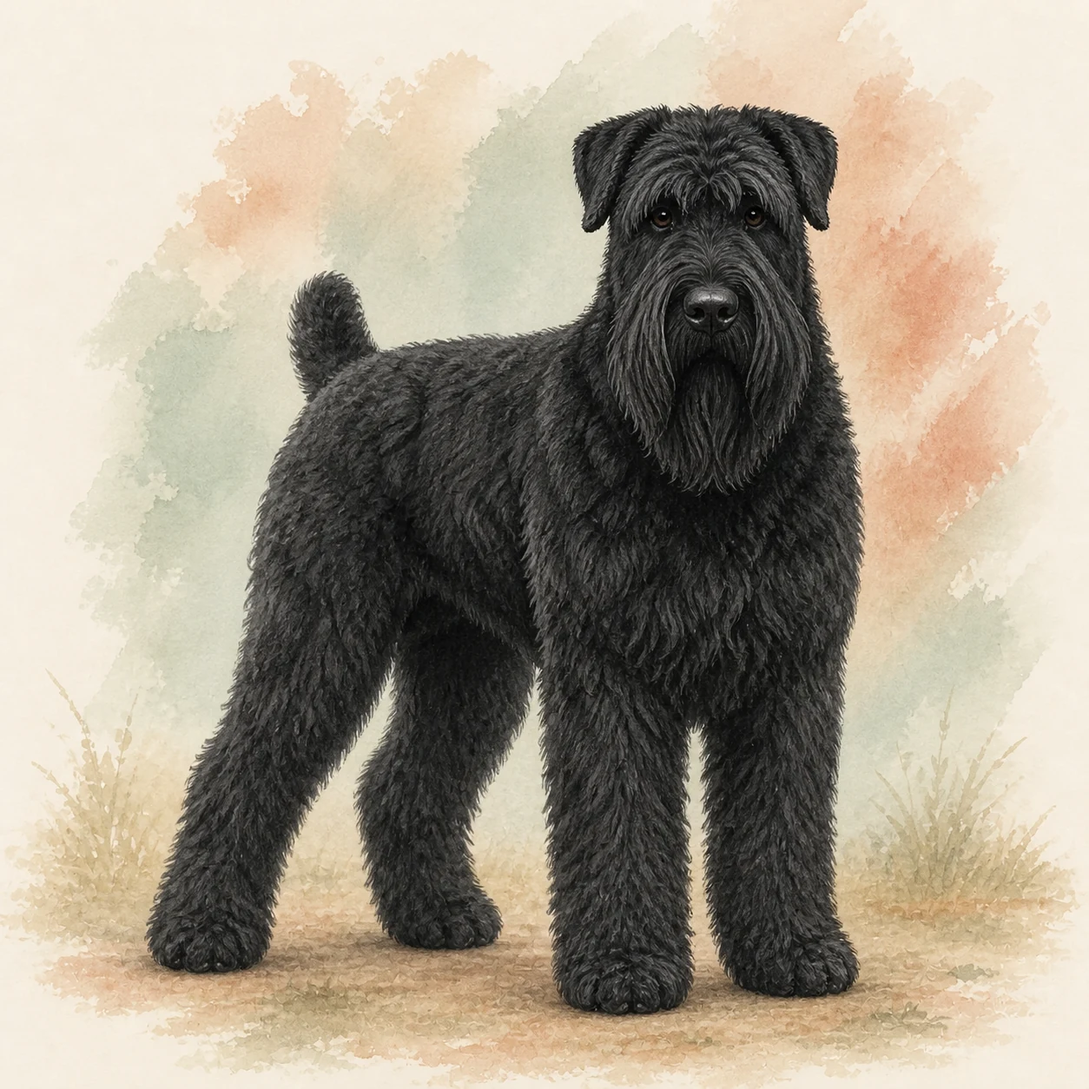
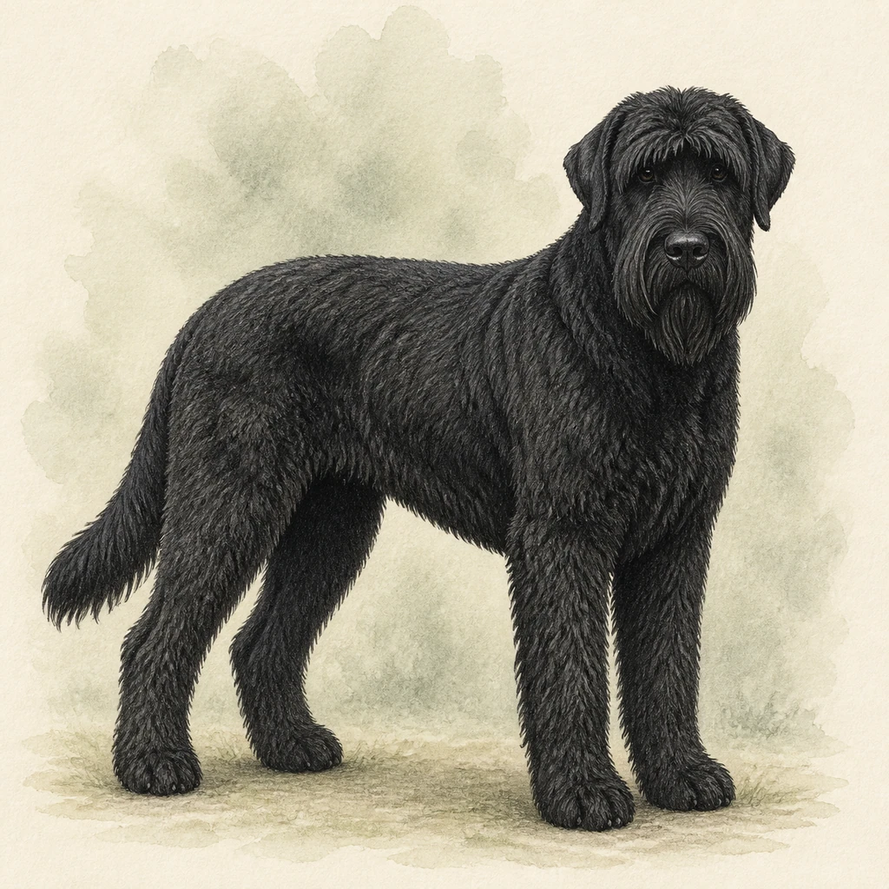
Refine giant breed imagery and remove review UI

diff --git a/src/components/discover-explorer.tsx b/src/components/discover-explorer.tsx
@@ -5,11 +5,6 @@ import { usePathname, useRouter, useSearchParams } from "next/navigation";
 import { useEffect, useMemo, useRef, useState } from "react";
 import { BreedVisual } from "@/components/breed-visual";
 import {
-  breedContentAuditStatuses,
-  breedContentAuditStatusLabels,
-  type BreedContentAuditStatus,
-} from "@/content/breed-content-audit";
-import {
   applyBreedFilterPreset,
   breedFilterPresets,
   emptyBreedFilters,
@@ -26,7 +21,7 @@ import {
 import { useHistoryEntryState } from "@/lib/history-entry-state";
 import { isKoreanManagedBreed } from "@/lib/breed-legal-care";
 import { presentBreedOrigin } from "@/lib/breed-origin-presentation";
-import { filterBreedsByContentAuditStatus, type DiscoverBreed } from "@/lib/discover-breeds";
+import type { DiscoverBreed } from "@/lib/discover-breeds";
 import styles from "./discover-explorer.module.css";
 
 const sizeOptions: Array<{ value: BreedSize; label: string }> = [
@@ -56,28 +51,9 @@ const quickPresets = breedFilterPresets.filter((preset) => ["calm", "active", "s
 
 const INITIAL_RESULT_COUNT = 48;
 const RESULT_BATCH_SIZE = 48;
-const AUDIT_QUERY_KEY = "audit";
 const isValidVisibleCount = (value: unknown): value is number => (
   Number.isInteger(value) && Number(value) >= INITIAL_RESULT_COUNT
 );
-
-function parseAuditStatus(params: URLSearchParams): BreedContentAuditStatus | null {
-  const value = params.get(AUDIT_QUERY_KEY);
-  if (breedContentAuditStatuses.some((status) => status === value)) return value as BreedContentAuditStatus;
-  return params.get("reviewed") === "core" ? "needs-review" : null;
-}
-
-function auditStatusClass(status: BreedContentAuditStatus) {
-  if (status === "needs-review") return styles.auditBadgeNeedsReview;
-  if (status === "awaiting-owner-review") return styles.auditBadgeAwaiting;
-  return styles.auditBadgeApproved;
-}
-
-function auditStatusIcon(status: BreedContentAuditStatus) {
-  if (status === "needs-review") return "!";
-  if (status === "awaiting-owner-review") return "·";
-  return "✓";
-}
 
 function cloneFilters(filters: BreedFilters): BreedFilters {
   return {
@@ -104,23 +80,16 @@ export function DiscoverExplorer({ breeds }: { breeds: readonly DiscoverBreed[] 
   const queryString = searchParams.toString();
   const syncedQueryRef = useRef(queryString);
   const urlFilters = useMemo(() => parseBreedFilters(new URLSearchParams(queryString)), [queryString]);
-  const urlAuditStatus = useMemo(() => parseAuditStatus(new URLSearchParams(queryString)), [queryString]);
   const [filters, setFilters] = useState<BreedFilters>(() => urlFilters);
-  const [auditStatus, setAuditStatus] = useState<BreedContentAuditStatus | null>(urlAuditStatus);
   const [visibleCount, setVisibleCount] = useHistoryEntryState(
     "discoverVisibleCount",
     INITIAL_RESULT_COUNT,
     isValidVisibleCount,
   );
   const filtersRef = useRef(filters);
-  const auditStatusRef = useRef(auditStatus);
-  const results = useMemo(() => filterBreedsByContentAuditStatus(filterBreeds(breeds, filters), auditStatus), [auditStatus, breeds, filters]);
-  const auditCounts = useMemo(() => Object.fromEntries(
-    breedContentAuditStatuses.map((status) => [status, breeds.filter((breed) => breed.contentAuditStatus === status).length]),
-  ) as Record<BreedContentAuditStatus, number>, [breeds]);
-  const auditTargetCount = useMemo(() => breeds.filter((breed) => breed.contentAuditStatus !== null).length, [breeds]);
+  const results = useMemo(() => filterBreeds(breeds, filters), [breeds, filters]);
   const visibleResults = useMemo(() => results.slice(0, visibleCount), [results, visibleCount]);
-  const activeCount = Object.values(filters).reduce((count, values) => count + values.length, auditStatus ? 1 : 0);
+  const activeCount = Object.values(filters).reduce((count, values) => count + values.length, 0);
 
   useEffect(() => {
     if (pendingQueryRef.current !== null) {
@@ -135,11 +104,9 @@ export function DiscoverExplorer({ breeds }: { breeds: readonly DiscoverBreed[] 
 
     syncedQueryRef.current = queryString;
     filtersRef.current = urlFilters;
-    auditStatusRef.current = urlAuditStatus;
     setFilters(urlFilters);
-    setAuditStatus(urlAuditStatus);
     setVisibleCount(INITIAL_RESULT_COUNT);
-  }, [queryString, setVisibleCount, urlAuditStatus, urlFilters]);
+  }, [queryString, setVisibleCount, urlFilters]);
 
   useEffect(() => {
     if (!filterOpen) return;
@@ -230,14 +197,11 @@ export function DiscoverExplorer({ breeds }: { breeds: readonly DiscoverBreed[] 
     requestAnimationFrame(() => filterTriggerRef.current?.focus());
   }
 
-  function commitFilterState(nextFilters: BreedFilters, nextAuditStatus = auditStatusRef.current) {
+  function commitFilterState(nextFilters: BreedFilters) {
     filtersRef.current = nextFilters;
-    auditStatusRef.current = nextAuditStatus;
     setFilters(nextFilters);
-    setAuditStatus(nextAuditStatus);
     setVisibleCount(INITIAL_RESULT_COUNT);
     const params = filtersToSearchParams(nextFilters);
-    if (nextAuditStatus) params.set(AUDIT_QUERY_KEY, nextAuditStatus);
     const query = params.toString();
     pendingQueryRef.current = query;
     router.replace(query ? `${pathname}?${query}` : pathname, { scroll: false });
@@ -282,32 +246,6 @@ export function DiscoverExplorer({ breeds }: { breeds: readonly DiscoverBreed[] 
           <div><span>전체 도감</span><h1 id="discover-results-title">{activeCount > 0 ? `${results.length}종을 살펴보세요` : `${breeds.length}종 모두 보기`}</h1></div>
         </div>
 
-        <div className={styles.auditFilter}>
-          <div className={styles.auditFilterCopy}>
-            <span>콘텐츠 재검수</span>
-            <small>역사에서 오늘의 생활로 이어지는 원고와 이미지 {auditTargetCount}종을 차례로 확인해요.</small>
-          </div>
-          <div className={styles.auditFilterOptions} aria-label="콘텐츠 검수 상태">
-            {breedContentAuditStatuses.map((status) => {
-              const active = auditStatus === status;
-              const count = auditCounts[status];
-              return (
-                <button
-                  type="button"
-                  key={status}
-                  aria-pressed={active}
-                  disabled={count === 0}
-                  onClick={() => commitFilterState(filtersRef.current, active ? null : status)}
-                >
-                  <span className={`${styles.auditFilterIcon} ${auditStatusClass(status)}`} aria-hidden="true">{auditStatusIcon(status)}</span>
-                  <span>{breedContentAuditStatusLabels[status]}</span>
-                  <strong>{count}</strong>
-                </button>
-              );
-            })}
-          </div>
-        </div>
-
         <div className={styles.quickFilters}>
           <span className={styles.quickFiltersLabel}>빠른 조건</span>
           <div className={styles.quickFilterList} aria-label="생활 조건 빠른 선택">
@@ -336,9 +274,8 @@ export function DiscoverExplorer({ breeds }: { breeds: readonly DiscoverBreed[] 
 
         {activeCount > 0 && (
           <div className={styles.selectedChips} aria-label="선택한 필터">
-            {auditStatus && <button type="button" aria-label={`${breedContentAuditStatusLabels[auditStatus]} 필터 제거`} onClick={() => commitFilterState(filtersRef.current, null)}>{breedContentAuditStatusLabels[auditStatus]} <span aria-hidden="true">×</span></button>}
             {selectedEntries.map(({ key, value }) => <button type="button" key={`${key}-${value}`} aria-label={`${selectedLabel(key, value)} 필터 제거`} onClick={() => clearOne(key, value)}>{selectedLabel(key, value)} <span aria-hidden="true">×</span></button>)}
-            <button className={styles.clearFilters} type="button" aria-label="선택한 필터 모두 지우기" onClick={() => commitFilterState(emptyBreedFilters(), null)}>모두 지우기</button>
+            <button className={styles.clearFilters} type="button" aria-label="선택한 필터 모두 지우기" onClick={() => commitFilterState(emptyBreedFilters())}>모두 지우기</button>
           </div>
         )}
       </section>
@@ -404,12 +341,6 @@ export function DiscoverExplorer({ breeds }: { breeds: readonly DiscoverBreed[] 
                 : defaultHighlights;
               return (
                 <Link className={styles.resultCard} href={`/breeds/${breed.slug}`} key={breed.slug} aria-label={`${breed.nameKo} 상세 이야기 보기`}>
-                  {breed.contentAuditStatus && (
-                    <span className={`${styles.auditBadge} ${auditStatusClass(breed.contentAuditStatus)}`}>
-                      <span className={styles.auditBadgeIcon} aria-hidden="true">{auditStatusIcon(breed.contentAuditStatus)}</span>
-                      {breedContentAuditStatusLabels[breed.contentAuditStatus]}
-                    </span>
-                  )}
                   <BreedVisual breed={breed} variant="tile" />
                   <div className={styles.resultCopy}>
                     <div className={styles.resultMeta}><span>{breed.nameEn}</span><span>{presentBreedOrigin(breed.identity.origin)}</span></div>
@@ -429,7 +360,7 @@ export function DiscoverExplorer({ breeds }: { breeds: readonly DiscoverBreed[] 
               <span>{visibleResults.length} / {results.length}마리 · 아래로 내리면 계속 보여요</span>
             </div>
           )}
-          {results.length === 0 && <div className={styles.emptyState}><h2>이 조건에 맞는 견종이 아직 없어요.</h2><p>조건을 하나씩 줄이거나 선택을 모두 지우고 다시 살펴보세요.</p><button type="button" onClick={() => commitFilterState(emptyBreedFilters(), null)}>선택 지우기</button></div>}
+          {results.length === 0 && <div className={styles.emptyState}><h2>이 조건에 맞는 견종이 아직 없어요.</h2><p>조건을 하나씩 줄이거나 선택을 모두 지우고 다시 살펴보세요.</p><button type="button" onClick={() => commitFilterState(emptyBreedFilters())}>선택 지우기</button></div>}
         </section>
       </div>
     </div>

diff --git a/src/components/discover-explorer.module.css b/src/components/discover-explorer.module.css
@@ -4,23 +4,6 @@
 .resultHeader > div > span { color: #ad5b31; font-size: .73rem; font-weight: 800; letter-spacing: .04em; }
 .resultHeader h1 { margin: 5px 0 0; color: #332923; font-size: clamp(1.4rem, 2.2vw, 1.75rem); line-height: 1.25; letter-spacing: -.035em; }
 .quickFilters { margin-bottom: 14px; }
-.auditFilter { display: flex; align-items: center; justify-content: space-between; gap: 18px; margin-bottom: 14px; padding: 12px 14px; border: 1px dashed #d7b99f; border-radius: 16px; background: #fffaf5; }
-.auditFilterCopy { min-width: 0; display: grid; gap: 2px; }
-.auditFilterCopy > span { color: #8f4826; font-size: .75rem; font-weight: 800; }
-.auditFilterCopy small { color: #756a63; font-size: .68rem; line-height: 1.45; }
-.auditFilterOptions { display: flex; flex: none; flex-wrap: wrap; justify-content: flex-end; gap: 7px; }
-.auditFilterOptions button { min-height: 38px; display: inline-flex; align-items: center; gap: 6px; padding: 6px 10px 6px 7px; border: 1px solid transparent; border-radius: 999px; color: #675b53; background: #f3e9df; font-size: .71rem; font-weight: 800; white-space: nowrap; cursor: pointer; }
-.auditFilterOptions button strong { min-width: 1.45rem; padding: 2px 5px; border-radius: 999px; color: #766960; background: rgb(255 255 255 / 72%); font-size: .64rem; text-align: center; }
-.auditFilterOptions button[aria-pressed="true"] { border-color: #92502f; color: #fff; background: #92502f; }
-.auditFilterOptions button[aria-pressed="true"] strong { color: #7f4327; background: #fff; }
-.auditFilterOptions button:disabled { cursor: default; opacity: .5; }
-.auditFilterIcon, .auditBadgeIcon { display: grid; place-items: center; flex: 0 0 auto; border-radius: 50%; font-weight: 900; line-height: 1; }
-.auditFilterIcon { width: 24px; height: 24px; color: #fff; }
-.auditBadge { position: absolute; z-index: 2; top: 9px; right: 9px; display: inline-flex; align-items: center; gap: 5px; padding: 5px 8px 5px 5px; border: 1px solid rgb(255 255 255 / 80%); border-radius: 999px; color: #fff; box-shadow: 0 5px 14px rgb(52 38 29 / 18%); font-size: .65rem; font-weight: 850; line-height: 1; }
-.auditBadgeIcon { width: 20px; height: 20px; color: inherit; background: rgb(255 255 255 / 18%); }
-.auditBadgeNeedsReview { background: #a65b28; }
-.auditBadgeAwaiting { background: #426d91; }
-.auditBadgeApproved { background: #3f7657; }
 .quickFiltersLabel { display: block; margin-bottom: 8px; color: #756a63; font-size: .7rem; font-weight: 750; }
 .quickFilterList { display: flex; flex-wrap: wrap; gap: 7px; }
 .quickFilterList button { min-height: 38px; display: inline-flex; align-items: center; gap: 6px; padding: 8px 13px; border: 0; border-radius: 999px; color: #665a52; background: #f7f2ec; box-shadow: 0 5px 16px rgb(65 46 34 / 5%); font-size: .73rem; font-weight: 750; white-space: nowrap; cursor: pointer; transition: color .18s ease, background-color .18s ease, box-shadow .18s ease, transform .18s ease; }
@@ -64,7 +47,7 @@
 .filterGuide dd { margin: 0; font-size: .68rem; line-height: 1.45; }
 .filterGuide small { display: block; color: #9a4d29; }
 .applyFilter { width: 100%; min-height: 48px; margin-top: 6px; padding: 12px; border: 0; border-radius: 13px; color: #fff; background: #b86437; font-weight: 750; cursor: pointer; }
-.filterTrigger:focus-visible, .auditFilterOptions button:focus-visible, .quickFilterList button:focus-visible, .optionGrid button:focus-visible, .selectedChips button:focus-visible, .applyFilter:focus-visible, .closeFilter:focus-visible, .emptyState button:focus-visible, .filterGuide summary:focus-visible { outline: 3px solid #c56b3c; outline-offset: 3px; }
+.filterTrigger:focus-visible, .quickFilterList button:focus-visible, .optionGrid button:focus-visible, .selectedChips button:focus-visible, .applyFilter:focus-visible, .closeFilter:focus-visible, .emptyState button:focus-visible, .filterGuide summary:focus-visible { outline: 3px solid #c56b3c; outline-offset: 3px; }
 .selectedChips { display: flex; flex-wrap: wrap; gap: 7px; margin-top: 10px; }
 .selectedChips button { min-height: 34px; padding: 7px 10px; border: 0; border-radius: 999px; color: #8f4826; background: #f4e7dc; font-size: .72rem; white-space: nowrap; cursor: pointer; }
 .selectedChips button span { margin-left: 4px; font-weight: 700; }
@@ -96,13 +79,6 @@
   .catalogControls { margin-bottom: 16px; }
   .resultHeader { margin-bottom: 14px; }
   .resultHeader h1 { font-size: 1.35rem; }
-  .auditFilter { align-items: stretch; flex-direction: column; gap: 9px; padding: 11px 12px; }
-  .auditFilterOptions { display: grid; grid-template-columns: repeat(3, minmax(0, 1fr)); }
-  .auditFilterOptions button { min-width: 0; justify-content: center; padding: 6px; }
-  .auditFilterOptions button > span:not(.auditFilterIcon) { overflow: hidden; text-overflow: ellipsis; }
-  .auditFilterOptions button strong { display: none; }
-  .auditBadge { top: 7px; right: 7px; padding-right: 6px; font-size: .58rem; }
-  .auditBadgeIcon { width: 18px; height: 18px; }
   .quickFilters { margin-bottom: 12px; }
   .quickFiltersLabel { margin-bottom: 7px; }
   .quickFilterList { flex-wrap: nowrap; margin-inline: calc(var(--page-inline) / -2); padding: 0 calc(var(--page-inline) / 2) 5px; overflow-x: auto; scrollbar-width: none; scroll-padding-inline: calc(var(--page-inline) / 2); }
@@ -125,4 +101,4 @@
   .resultMeta span { display: block; }
   .resultMeta span:last-child { margin-top: 2px; }
 }
-@media (prefers-reduced-motion: reduce) { .filterPanel, .resultCard, .filterTrigger, .auditFilterOptions button, .quickFilterList button, .quickFilterList button > span { transition: none; } .resultCard:hover, .quickFilterList button:hover { translate: none; } .loadingMark { animation: none; } }
+@media (prefers-reduced-motion: reduce) { .filterPanel, .resultCard, .filterTrigger, .quickFilterList button, .quickFilterList button > span { transition: none; } .resultCard:hover, .quickFilterList button:hover { translate: none; } .loadingMark { animation: none; } }

diff --git a/src/lib/discover-breeds.test.ts b/src/lib/discover-breeds.test.ts
@@ -1,53 +1,19 @@
 import { describe, expect, it } from "vitest";
-import { getBreedContentAuditStatus } from "@/content/breed-content-audit";
 import { breeds } from "@/content/breeds/data";
-import { getStandardBreedDetail } from "@/content/standard-breed-detail/data";
 import { emptyBreedFilters, filterBreeds } from "./breed-filters";
-import { filterBreedsByContentAuditStatus, toDiscoverBreed } from "./discover-breeds";
+import { toDiscoverBreed } from "./discover-breeds";
 
 describe("discover breed DTO", () => {
   it("keeps only the fields used by discovery cards and filters", () => {
     const source = breeds[0];
     const result = toDiscoverBreed(source);
 
-    expect(Object.keys(result)).toEqual(["slug", "nameKo", "nameEn", "tagline", "contentAuditStatus", "sizeClasses", "sizeDisplay", "identity", "tendencies"]);
+    expect(Object.keys(result)).toEqual(["slug", "nameKo", "nameEn", "tagline", "sizeClasses", "sizeDisplay", "identity", "tendencies"]);
     expect(Object.keys(result.identity)).toEqual(["origin"]);
     expect(Object.values(result.tendencies).every((tendency) => Object.keys(tendency).join() === "label")).toBe(true);
     expect(result).not.toHaveProperty("story");
     expect(result).not.toHaveProperty("sources");
     expect(result).not.toHaveProperty("careNotes");
-  });
-
-  it("starts every previously reviewed detail in the new needs-review queue", () => {
-    const projected = breeds.map((breed) => {
-      const detail = getStandardBreedDetail(breed.slug);
-      const isEditorialReviewComplete = breed.slug === "poodle" || detail?.reviewStatus === "editorial-reviewed";
-      return toDiscoverBreed(breed, getBreedContentAuditStatus(breed.slug, isEditorialReviewComplete));
-    });
-    const reviewed = filterBreedsByContentAuditStatus(projected, "needs-review");
-
-    expect(reviewed).toHaveLength(200);
-    expect(reviewed.some((breed) => breed.slug === "poodle")).toBe(true);
-    expect(reviewed.some((breed) => breed.slug === "american-cocker-spaniel")).toBe(true);
-    expect(reviewed.some((breed) => breed.slug === "mongolian-bankhar")).toBe(true);
-    expect(reviewed.some((breed) => breed.slug === "kooikerhondje")).toBe(true);
-    expect(reviewed.some((breed) => breed.slug === "puli")).toBe(true);
-    expect(reviewed.some((breed) => breed.slug === "tibetan-spaniel")).toBe(true);
-    expect(reviewed.some((breed) => breed.slug === "dogo-argentino")).toBe(true);
-    expect(reviewed.some((breed) => breed.slug === "miniature-bull-terrier")).toBe(true);
-    expect(reviewed.some((breed) => breed.slug === "canaan-dog")).toBe(true);
-    expect(reviewed.some((breed) => breed.slug === "english-pointer")).toBe(true);
-    expect(reviewed.some((breed) => breed.slug === "bergamasco-shepherd")).toBe(true);
-    expect(reviewed.some((breed) => breed.slug === "sealyham-terrier")).toBe(true);
-    expect(reviewed.some((breed) => breed.slug === "grand-basset-griffon-vendeen")).toBe(true);
-    expect(reviewed.some((breed) => breed.slug === "braque-saint-germain")).toBe(true);
-    expect(reviewed.some((breed) => breed.slug === "american-pit-bull-terrier")).toBe(false);
-    expect(reviewed.some((breed) => breed.slug === "russian-toy")).toBe(false);
-    expect(reviewed.some((breed) => breed.slug === "lowchen")).toBe(false);
-    expect(reviewed.some((breed) => breed.slug === "maremma-sheepdog")).toBe(false);
-    expect(filterBreedsByContentAuditStatus(projected, null)).toHaveLength(376);
-    expect(filterBreedsByContentAuditStatus(projected, "awaiting-owner-review")).toHaveLength(0);
-    expect(filterBreedsByContentAuditStatus(projected, "approved")).toHaveLength(0);
   });
 
   it("preserves filtering results after projection", () => {

diff --git a/src/lib/discover-breeds.ts b/src/lib/discover-breeds.ts
@@ -1,12 +1,10 @@
 import type { Breed } from "@/content/breeds/schema";
-import type { BreedContentAuditStatus } from "@/content/breed-content-audit";
 import type { DogAtlasSizeClass } from "@/content/breed-sizes/schema";
 import { getBreedSizePresentation } from "@/lib/breed-size-presentation";
 
 type DiscoverTendency = Pick<Breed["tendencies"]["activity"], "label">;
 
 export type DiscoverBreed = Pick<Breed, "slug" | "nameKo" | "nameEn" | "tagline"> & {
-  contentAuditStatus: BreedContentAuditStatus | null;
   identity: Pick<Breed["identity"], "origin">;
   sizeClasses: DogAtlasSizeClass[];
   sizeDisplay?: string;
@@ -20,14 +18,13 @@ export type DiscoverBreed = Pick<Breed, "slug" | "nameKo" | "nameEn" | "tagline"
   };
 };
 
-export function toDiscoverBreed(breed: Breed, contentAuditStatus: BreedContentAuditStatus | null = null): DiscoverBreed {
+export function toDiscoverBreed(breed: Breed): DiscoverBreed {
   const size = getBreedSizePresentation(breed.slug);
   return {
     slug: breed.slug,
     nameKo: breed.nameKo,
     nameEn: breed.nameEn,
     tagline: breed.tagline,
-    contentAuditStatus,
     sizeClasses: size.filterClasses,
     sizeDisplay: size.displayLabel,
     identity: {
@@ -42,11 +39,4 @@ export function toDiscoverBreed(breed: Breed, contentAuditStatus: BreedContentAu
       grooming: { label: breed.tendencies.grooming.label },
     },
   };
-}
-
-export function filterBreedsByContentAuditStatus<T extends Pick<DiscoverBreed, "contentAuditStatus">>(
-  breeds: readonly T[],
-  status: BreedContentAuditStatus | null,
-): T[] {
-  return status ? breeds.filter((breed) => breed.contentAuditStatus === status) : [...breeds];
 }

diff --git a/src/app/discover/page.tsx b/src/app/discover/page.tsx
@@ -4,10 +4,8 @@ import { DiscoverExplorer } from "@/components/discover-explorer";
 import { DiscoverSearch } from "@/components/discover-search";
 import { FamiliarBreedStart } from "@/components/familiar-breed-start";
 import { SiteHeader } from "@/components/site-header";
-import { getBreedContentAuditStatus } from "@/content/breed-content-audit";
 import { breeds } from "@/content/breeds/data";
 import { getMasterBreed } from "@/content/breeds/master-catalog";
-import { getStandardBreedDetail } from "@/content/standard-breed-detail/data";
 import { toDiscoverBreed } from "@/lib/discover-breeds";
 import styles from "./page.module.css";
 
@@ -38,11 +36,7 @@ export default function DiscoverPage() {
         </div>
         <FamiliarBreedStart breeds={breeds} />
         <Suspense fallback={<div className={styles.loading}>견종 필터를 준비하고 있어요.</div>}>
-          <DiscoverExplorer breeds={breeds.map((breed) => {
-            const detail = getStandardBreedDetail(breed.slug);
-            const isEditorialReviewComplete = breed.slug === "poodle" || detail?.reviewStatus === "editorial-reviewed";
-            return toDiscoverBreed(breed, getBreedContentAuditStatus(breed.slug, isEditorialReviewComplete));
-          })} />
+          <DiscoverExplorer breeds={breeds.map((breed) => toDiscoverBreed(breed))} />
         </Suspense>
       </main>
     </>

diff --git a/docs/project-status.md b/docs/project-status.md
@@ -7,6 +7,20 @@
 > 역할: 제품·디자인·코드·콘텐츠·검증 상태를 빠르게 파악하기 위한 살아 있는 문서
 > 갱신 책임: 중요한 변경을 수행한 사람 또는 AI가 같은 변경 안에서 이 문서를 함께 수정한다.
 
+### 2026-09-01 초대형견 공용 대표 이미지 15종 재제작
+
+- 어제 승인한 초대형견 대표 이미지 12종은 유지하고, 아직 교정하지 않았던 그레이터 스위스 마운틴 독·라페이루 두 알렌테주·루마니안 레이븐 셰퍼드·루마니안 미오리틱 셰퍼드·루마니안 부코비나 셰퍼드·마렘마 앤 아브루초 셰퍼드·마케도니안 셰퍼드 도그 카라만·몽골리안 방카르·불마스티프·브로홀머·블랙 러시안 테리어·코몬도르·쿠바츠·트란스몬타노 마스티프·프레사 카나리오의 공용 대표 이미지 15장을 다시 제작했다.
+- 아이보리 종이·연한 세이지 수채화 배경·성견 한 마리의 전신·관람자를 향한 시선은 공통으로 유지하되, 각 견종의 몸길이와 체고, 다리 길이, 머리형, 피모와 대표 모색을 공식 표준과 1차 자료에 맞춰 개별화했다. 사람·비교 소품과 상세 이야기 이미지는 건드리지 않았다.
+- 새 자산은 1024×1024 WebP로 발견 카드와 상세 상단 첫 이미지에 함께 연결된다. 특히 마스티프형을 일괄적으로 비만하고 짧게 그리지 않고, 산악 보호견·장신 작업견·몰로서·코드 코트 견종의 서로 다른 골격이 읽히도록 했다.
+- 실제 브라우저에서 블랙 러시안 테리어 상세 상단의 교체 이미지와 콘솔 오류 부재를 확인했다. ESLint·TypeScript 검사와 46개 파일·1,610개 테스트를 통과했고 프로덕션 빌드는 399개 경로를 정상 생성했다.
+
+### 2026-09-01 견종발견 콘텐츠 재검수 UI 제거
+
+- 사용자가 견종 원고와 이미지를 직접 검수하는 흐름으로 전환해 견종발견의 `검수 필요`·`확인 대기`·`확인 완료` 필터와 카드 배지를 제거했다.
+- 별도 콘텐츠 재검수 상태 레지스트리, 발견 DTO 필드, 상태 필터 함수, `audit` URL과 옛 `reviewed=core` 호환 해석도 함께 삭제했다. 일반 크기·성향 필터와 검색은 유지한다.
+- `production-draft`·`editorial-reviewed`는 공개 UI 상태가 아니라 상세 콘텐츠 제작 품질을 관리하는 내부 게이트이므로 유지한다.
+- 실제 견종발견 화면과 세부 조건 패널에서 재검수 필터·배지·문구가 사라지고 기존 5단계 체구 및 생활 조건만 남는 것을 확인했다.
+
 ### 2026-09-01 Dog Atlas 크기 분류 시스템 v1 완료
 
 - 크기 데이터 정규화·공식 자료 보완·서비스 연결·회귀 검증을 모두 마쳤으며, 현재 구현을 v1 완료 상태로 고정한다. 추가 구조 변경이나 UI 수정은 진행하지 않고 남은 수치 보완은 별도 backlog로 관리한다.
@@ -74,7 +88,7 @@
 - 이번 변경은 대표 이미지 10장의 시각 교정만 포함하며 상세 이야기 이미지는 유지했다. 역사→오늘→함께 살 때 원고와 이야기 이미지까지 재검수하기 전이므로 열 견종의 콘텐츠 상태는 계속 `검수 필요`로 둔다.
 - ESLint·TypeScript 검사와 43개 파일·1,553개 테스트를 통과했고, 프로덕션 빌드는 399개 정적 경로를 정상 생성했다.
 
-### 2026-08-31 200종 콘텐츠 재검수 상태 분리
+### 2026-08-31 200종 콘텐츠 재검수 상태 분리 — 2026-09-01 제거됨
 
 - 기존 `editorial-reviewed` 제작 상태와 별개로 역사 역할 → 오늘의 활동 → 함께 사는 현실의 원고·이미지 연결을 다시 확인하는 콘텐츠 재검수 상태를 추가했다.
 - 견종 발견은 `검수 필요`·`확인 대기`·`확인 완료` 필터와 카드 우측 상단 상태 배지를 제공한다. 색만으로 구분하지 않고 원형 기호와 문구를 함께 표시한다.

diff --git a/docs/decisions.md b/docs/decisions.md
@@ -557,3 +557,15 @@ Use the existing explicit service-override registry so the editorial choice stay
 Supersede the earlier large service exception for Black Russian Terrier. Its 68–76cm height, 45–60kg weight, and substantial working-dog build fit the giant discovery group, so keep the source profile unchanged and set its explicit service override to `giant`.
 
 Greyhound and Polish Greyhound remain the two tall, light-framed breeds separated into `large`. The actual filter counts become extra-small 4, small 48, medium 114, large 126, and giant 27.
+
+# 2026-09-01 — Remove the public breed-content re-review workflow
+
+Remove the `needs-review`, `awaiting-owner-review`, and `approved` registry, discovery filter, card badge, and audit URL handling. The owner will review breed copy and imagery directly, so maintaining a parallel public workflow adds interface and state complexity without supporting the new process.
+
+Keep `production-draft` and `editorial-reviewed` only as internal content-production gates. They must not appear as discovery filters or card labels, and ordinary search, size, and tendency filtering remain unchanged.
+
+# 2026-09-01 — Preserve one visual grammar while drawing giant breeds individually
+
+Keep the approved warm-ivory paper, pale-sage watercolor field, full-body adult, three-quarter stance, and viewer-facing gaze for shared discovery/detail hero assets. Express giant scale without people or props, using each breed's actual height-to-length ratio, leg length, bone, head type, coat structure, and recognized color instead of reusing one enlarged mastiff body.
+
+Retain the twelve giant-breed images approved in the preceding review and replace only the remaining fifteen. Discovery cards and the first detail hero share the same asset; historical and everyday story images remain outside this pass.

diff --git a/docs/breed-detail-production-gate.md b/docs/breed-detail-production-gate.md
@@ -101,7 +101,7 @@
 300종까지 상세 골격을 먼저 만드는 배치는 스키마·직접 출처·크기 표현·고유 원고·이미지 존재 검사를 통과한 뒤에도 `production-draft`로 저장한다. 이 상태는 공개 경로에 연결된 제작 초안이며 `검수 완료`가 아니다.
 
 - `production-draft`: 배치 자동 게이트와 장면별 기본 육안 확인을 통과했지만 한국어·모바일·배치 간 반복을 최종 편집 검수하기 전이다.
-- `editorial-reviewed`: 아래 게이트 D~F와 이름·검색 검수를 모두 마쳐 견종 발견의 `검수 완료` 필터에 포함할 수 있다.
+- `editorial-reviewed`: 아래 게이트 D~F와 이름·검색 검수를 모두 마친 내부 편집 완료 상태다. 견종발견 UI에는 이 상태를 노출하거나 필터링하지 않는다.
 - 기존 상세는 상태 필드가 없으면 호환을 위해 `editorial-reviewed`로 읽되, 새 확장 데이터는 상태를 반드시 명시한다.
 - 수의학·행동학·컨포메이션 전문가 검수는 두 상태와 별도로 기록한다.
 
